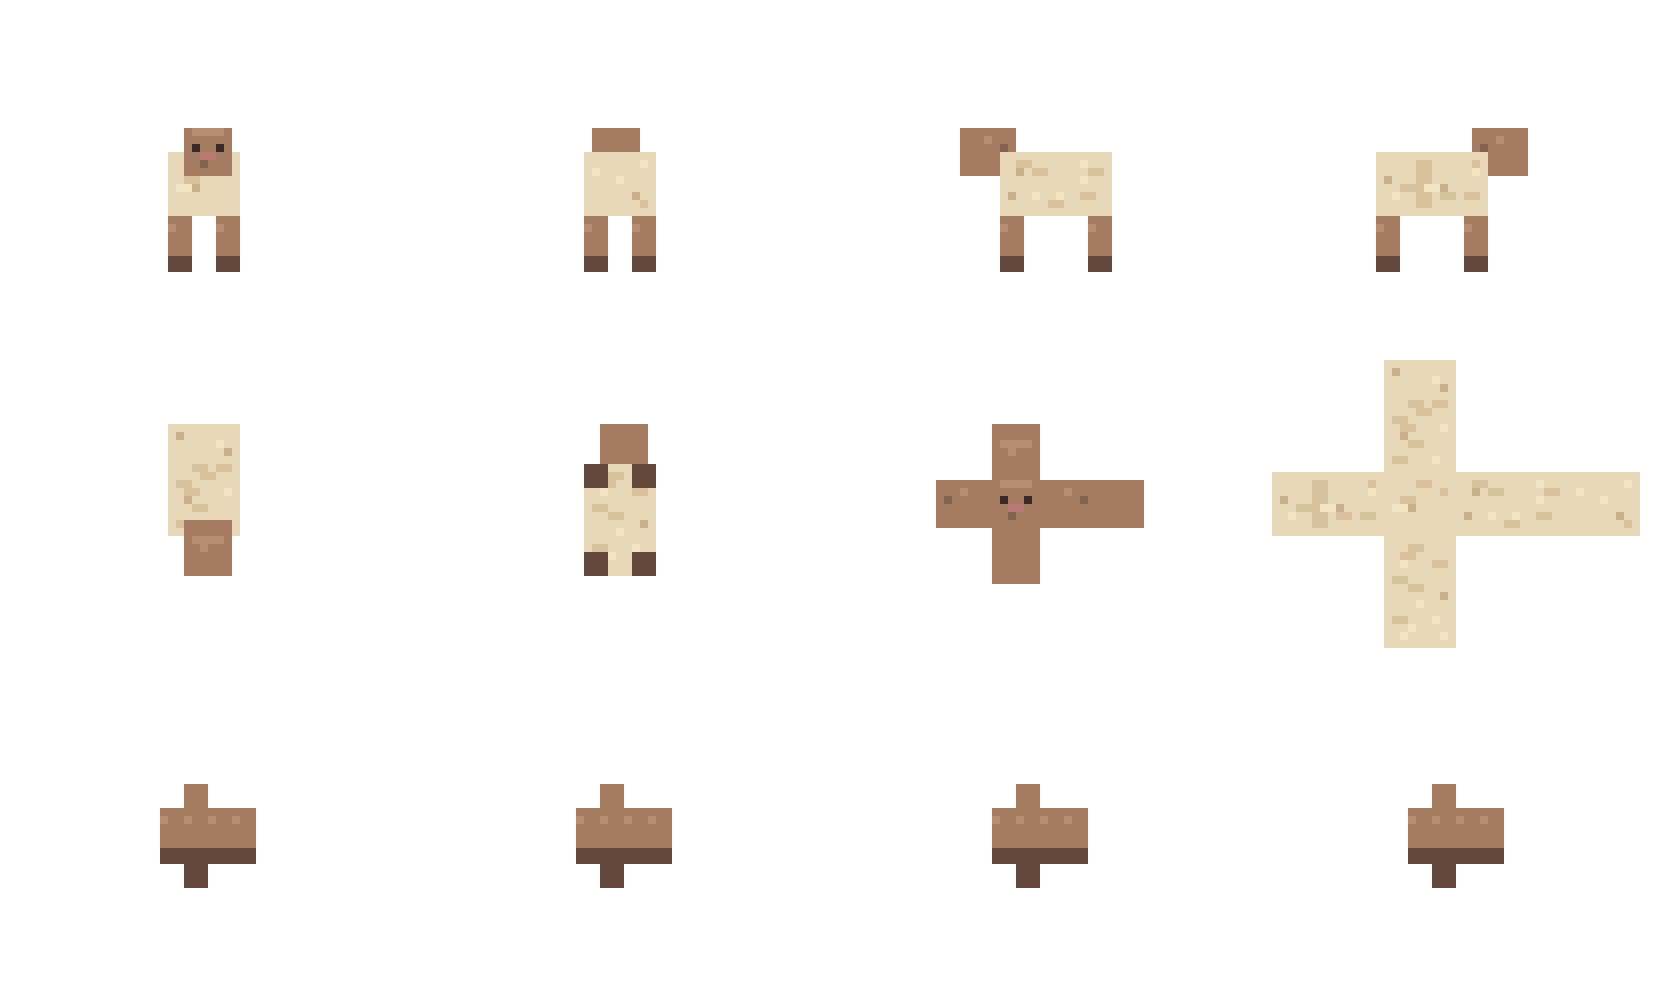
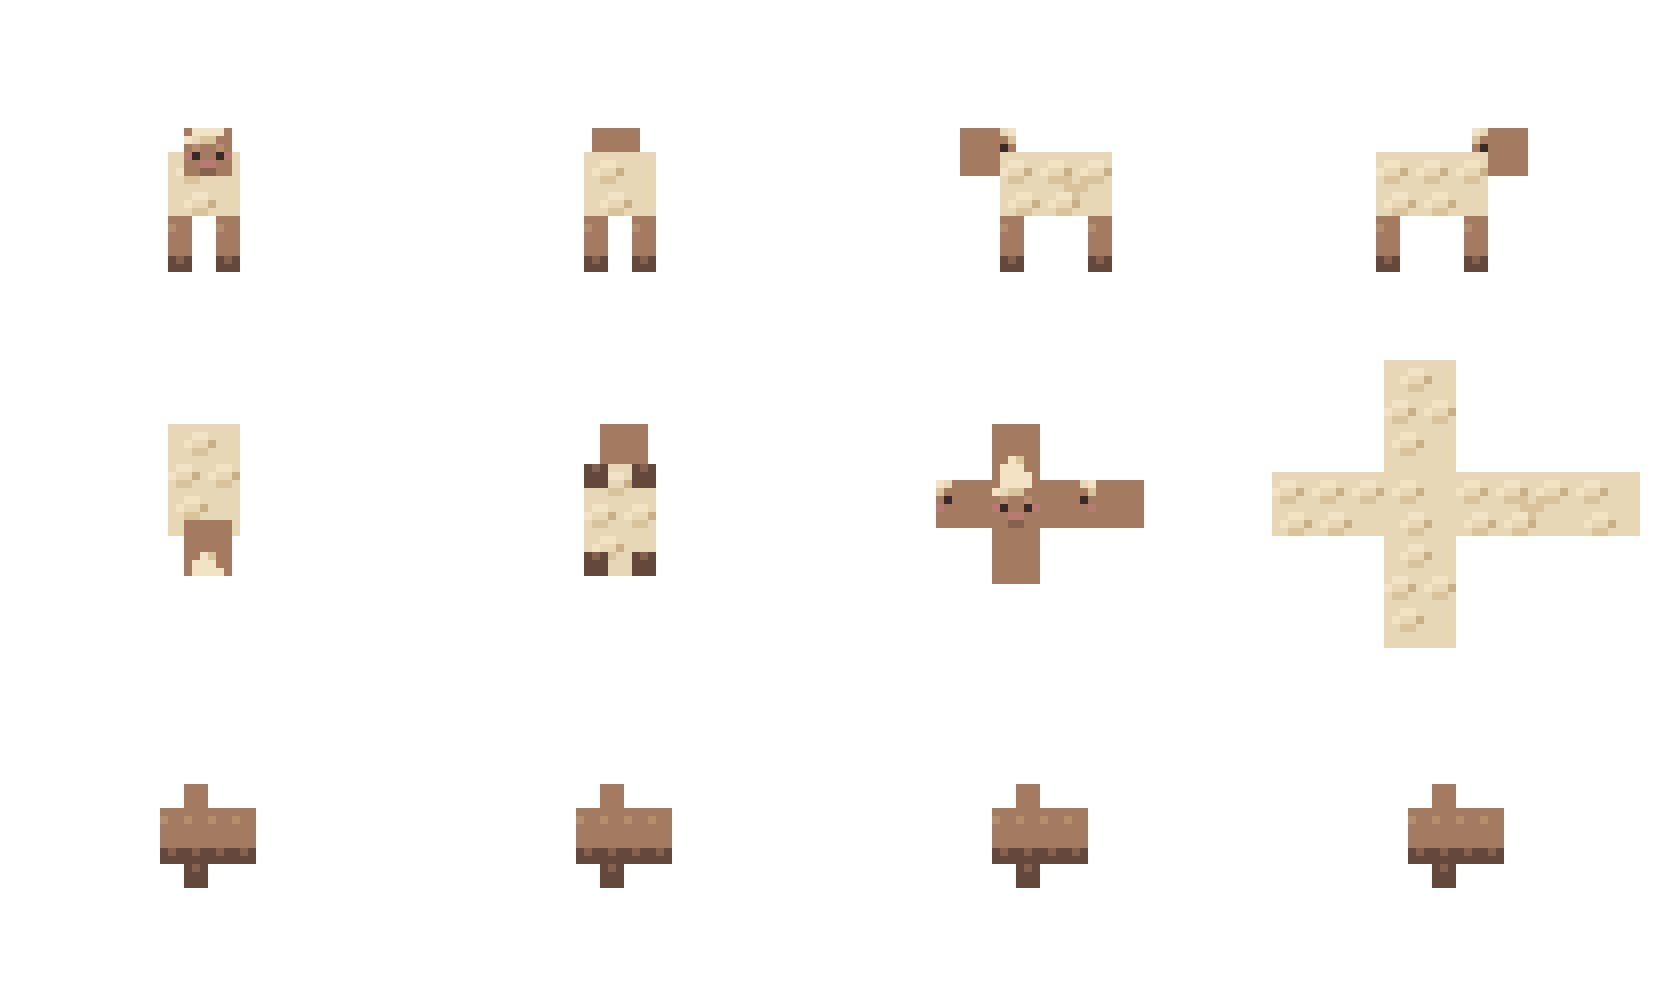
Ovelha pipoca no lugar da ovelha lisa (v0.220.0)
Atlas montado pela prancha ortográfica enviada; guardadas a prancha lisa anterior e a tosquiada (para a futura tosquia).

Claude-Session: https://claude.ai/code/session_01KGdgoniDf5SwPMM31qtkm2

diff --git a/docs/NEXT_STEPS.md b/docs/NEXT_STEPS.md
@@ -6,7 +6,7 @@ Para escolher o próximo lote de arte, consulte o [Guia de itens e texturas](GUI
 
 ## Auditoria das regras de mundo (ADR 0116) — em andamento
 **Regra do dono do produto:** nenhuma regra de mundo é implementada ou alterada sem consultar a Minecraft Wiki, apresentar o estado atual, formular a proposta e receber a **aprovação**. As 30 regras de [`AUDITORIA_REGRAS.md`](AUDITORIA_REGRAS.md) estão **pendentes** (uma por vez, na ordem que o dono escolher). **Os "próximos passos recomendados" abaixo (Braseiro, cama, minério, fauna…) são regras de mundo: só entram depois do ciclo da regra correspondente.**
-**Cultivo (ADR 0144):** feita a colheita da planta imatura e a horta da aldeia; **pendentes:** fonte de cenoura e batata para a partida individual (e então tirá-las de `wildSeedAt`), batata venenosa; servidor: pacote novo (`build:net` + `sync-net`). **Arte dos mobs (ADR 0143, adendo):** mobs, NPCs e personagens podem passar de 32 px; **feita para os 4 animais de fazenda (v0.217.0, atlas UV 128 × 128; v2 na v0.218.0)**; **ovelha pela prancha ortográfica (v0.219.0, sem furos; 1 px de arte por unidade)**; **pendentes:** pranchas ortográficas de porco, vaca e galinha (hoje na v2 do Drive, com pixels transparentes dentro de faces: porco 74, vaca 406, galinha 6; o jogo descarta alfa < 0,5 e pode mostrar furo) e, se o dono quiser mais detalhe, pranchas a 2 ou 4 px por unidade; os `orvalis_mob_*_128x128.png` do Drive (ilustrações de perfil) seguem sem uso, e os demais mobs (Farejador, outros animais) esperam arte própria. **Arte de 32 px (ADR 0143):** feita para o que o jogo usa; **pendentes:** água em 32 px (o pacote não traz), os 83 itens e os tiles ainda só em 16 px, e as 252 artes do Drive sem uso (iluminação, velas, fogueiras, lã, vidros, barris, estantes, pedregulho, musgo…), que entram com cada bloco ou item. **Aldeia da Costa (ADR 0142):** feita; **pendentes:** casas e celeiro (só o piso), poço e bancos, água nos talhões, a aldeia na partida individual (hoje só na sala 102); servidor: pacote novo (`build:net` + `sync-net`) e `def.terrain` em `src/app.js`. **Famílias das madeiras (ADR 0139):** W1 (laje e degrau), W2 (cerca e portão, ADR 0140) e W3 (porta e alçapão, ADR 0141) feitas; **pendentes:** timbre de madeira no som; alçapão como escada e com animação; porta de 2 células e alçapão (porta 6 tábuas → 3; alçapão 6 → 2); W4 botão e placa de pressão adiados; fora: estante, placa suspensa, placa com texto; bote com baú espera o baú do Orvalis. **Pesca (ADR 0133):** pendentes — lixo e tesouro, baiacu com efeitos, balde com peixe, lançar além da mira. **Orvalis em sala (ADR 0138):** entregas A, B e C feitas (protocolo 5); **pendentes:** segundo passageiro, bote com baú, ver a boia dos outros jogadores, anti-trapaça da bolsa e da fabricação, chat e salas privadas; servidor: sincronizar o pacote a cada mudança da sala. **Botes (ADR 0137, E4a feita):** pendentes — E4b com baú (precisa do baú do Orvalis), segundo passageiro e animais a bordo, bote em terra (lento), golpe que o quebra, dano de queda anulado. **Corais (ADR 0136, E3b feita):** pendentes — gorgônias de parede, picles-do-mar e pepino-do-mar, prismarinho e conduto, coral por farinha de osso, morte do coral ao retirar a água. **Flora marinha (ADR 0135):** E3a feita; pendentes — crescimento da alga por tique (14 %), erva marinha por farinha de osso; **E3b corais** (5 famílias, vivo e morto, recifes em manchas rasas, solta a si mesmo, morre fora da água em segundos) é o próximo passo. **Em andamento:** #14 Água (ADR 0132: E1 água animada e corrida nadando feitas; próximas: E2 itens e pesca, E3 oceano e corais, E4 botes, e o fluxo de água, cada um com ciclo da Wiki). **Feita:** #18 Drops e coleta (ADR 0131, v0.200.0; pendente: ação de jogar item com atraso de 2 s). **Feita:** #35 Fauna de fazenda (ADR 0124, v0.193.0; sem mudança de protocolo). **Feita:** #36 Reprodução (ADR 0125, v0.194.0). **Feita:** fauna no save (ADR 0126, v0.195.0). **Feita:** #37 Beterraba (ADR 0127, v0.196.0). **Em aberto (adiado pelo dono):** leite e tosquia (#38, aguarda arte e itens: tesoura, balde, ferro). **Feita:** #23 Vida e fome (ADR 0130, v0.199.0). **Feita:** #39 Abóbora e melancia (ADR 0128, v0.197.0) e #40 as 8 idades da horta (ADR 0129, v0.198.0). **Pendências dela:** abóbora esculpida e golens, torta de abóbora, batata venenosa (precisa de efeitos), as 8 idades [FEITO] do trigo/cenoura/batata (auditoria da horta), outras sementes da galinha, cor do filhote da ovelha, ovos/pintinho. **Pendências da fauna:** leite (balde), tosquia e lã que recresce, ovos, geração contínua/despawn, abate no save, luz do céu nos animais, caixa de colisão da Wiki na física, sons, ovo (o ícone existe no Drive; sem ovos nesta fase), valores de velocidade em m/s Outros animais do pacote Mobs64px (cavalo, lobo, gato, coelho…) seguem na fila, cada um pelo ciclo da ADR 0116. **Arte na fila (só fonte, sem uso no jogo):** `assets-src/orvalis-voxel/cultivos/` (57 sprites: trigo em 8 idades, beterraba, abóbora, melancia, cacau…; usar as 8 idades muda a horta de 3 para 8 fases, auditoria própria), `assets-src/orvalis-voxel/alimentos/` (20 ícones: beterraba, maçãs, melancia, ensopados, bolo…; a beterraba liga à reprodução do porco), `assets-src/orvalis-voxel/iluminacao/` (P2-11) e `cozinha/` (P2-06: Fornalha, Caldeirão, comidas); a Fornalha liga a regra #21 à Tocha (#33). **Feita:** #32 Luz do céu nos dois mundos (ADR 0123, v0.190.0 a v0.192.0). **Dívidas dela:** itens soltos, animais, mão e jogadores da sala sem céu (ficam claros numa caverna) e a primeira conta (~220 ms) em um passo só; o servidor precisa do `sync-net` da v0.192.0. **Feita:** #34 Carvão mineral (ADR 0122, v0.189.0; servidor precisa do `sync-net`). **Feita:** #33 Tocha (ADR 0121, v0.188.0; servidor precisa do `sync-net`). **Próxima aprovada:** #32 Luz do céu, nos dois mundos. **Feita:** #21 Fornalha e Carvão Vegetal (ADR 0120, v0.187.0): **a Tocha (#33) agora pode usar a receita da Wiki (Carvão Vegetal + haste → 4)**; o ícone definitivo do carvão já está no jogo (v0.187.1); a família do carvão (mineral, minério, bloco) está em `assets-src/orvalis-voxel/carvao/`, só fonte. **Feitas:** #9 Luz de bloco (ADR 0119, v0.186.0; **#32 Luz do céu** aguarda decisão do dono, depende da Tocha do Orvalis — arte já em `assets-src/orvalis-voxel/iluminacao/`); #16 Quebra progressiva (ADR 0117, v0.184.0); #10 Ciclo de dia e noite e #31 Clima (ADR 0118, v0.185.0 — **o servidor `orvalis-servidor` precisa do `sync-net` desta versão (protocolo 3) antes de a sala aceitar o jogo novo**; dívidas: oclusão da chuva sob telhado, trovão/neve se o dono quiser, hidratação da enxada com chuva). **Próxima:** o dono escolhe a regra (uma por vez); durezas provisórias dos blocos do Titã e a velocidade do cobre seguem em aberto.
+**Cultivo (ADR 0144):** feita a colheita da planta imatura e a horta da aldeia; **pendentes:** fonte de cenoura e batata para a partida individual (e então tirá-las de `wildSeedAt`), batata venenosa; servidor: pacote novo (`build:net` + `sync-net`). **Arte dos mobs (ADR 0143, adendo):** mobs, NPCs e personagens podem passar de 32 px; **feita para os 4 animais de fazenda (v0.217.0, atlas UV 128 × 128; v2 na v0.218.0)**; **ovelha pela prancha ortográfica (v0.219.0; "pipoca" na v0.220.0, sem furos; 1 px de arte por unidade; a prancha da ovelha tosquiada já está no repositório, para a tosquia)**; **pendentes:** pranchas ortográficas de porco, vaca e galinha (hoje na v2 do Drive, com pixels transparentes dentro de faces: porco 74, vaca 406, galinha 6; o jogo descarta alfa < 0,5 e pode mostrar furo) e, se o dono quiser mais detalhe, pranchas a 2 ou 4 px por unidade; os `orvalis_mob_*_128x128.png` do Drive (ilustrações de perfil) seguem sem uso, e os demais mobs (Farejador, outros animais) esperam arte própria. **Arte de 32 px (ADR 0143):** feita para o que o jogo usa; **pendentes:** água em 32 px (o pacote não traz), os 83 itens e os tiles ainda só em 16 px, e as 252 artes do Drive sem uso (iluminação, velas, fogueiras, lã, vidros, barris, estantes, pedregulho, musgo…), que entram com cada bloco ou item. **Aldeia da Costa (ADR 0142):** feita; **pendentes:** casas e celeiro (só o piso), poço e bancos, água nos talhões, a aldeia na partida individual (hoje só na sala 102); servidor: pacote novo (`build:net` + `sync-net`) e `def.terrain` em `src/app.js`. **Famílias das madeiras (ADR 0139):** W1 (laje e degrau), W2 (cerca e portão, ADR 0140) e W3 (porta e alçapão, ADR 0141) feitas; **pendentes:** timbre de madeira no som; alçapão como escada e com animação; porta de 2 células e alçapão (porta 6 tábuas → 3; alçapão 6 → 2); W4 botão e placa de pressão adiados; fora: estante, placa suspensa, placa com texto; bote com baú espera o baú do Orvalis. **Pesca (ADR 0133):** pendentes — lixo e tesouro, baiacu com efeitos, balde com peixe, lançar além da mira. **Orvalis em sala (ADR 0138):** entregas A, B e C feitas (protocolo 5); **pendentes:** segundo passageiro, bote com baú, ver a boia dos outros jogadores, anti-trapaça da bolsa e da fabricação, chat e salas privadas; servidor: sincronizar o pacote a cada mudança da sala. **Botes (ADR 0137, E4a feita):** pendentes — E4b com baú (precisa do baú do Orvalis), segundo passageiro e animais a bordo, bote em terra (lento), golpe que o quebra, dano de queda anulado. **Corais (ADR 0136, E3b feita):** pendentes — gorgônias de parede, picles-do-mar e pepino-do-mar, prismarinho e conduto, coral por farinha de osso, morte do coral ao retirar a água. **Flora marinha (ADR 0135):** E3a feita; pendentes — crescimento da alga por tique (14 %), erva marinha por farinha de osso; **E3b corais** (5 famílias, vivo e morto, recifes em manchas rasas, solta a si mesmo, morre fora da água em segundos) é o próximo passo. **Em andamento:** #14 Água (ADR 0132: E1 água animada e corrida nadando feitas; próximas: E2 itens e pesca, E3 oceano e corais, E4 botes, e o fluxo de água, cada um com ciclo da Wiki). **Feita:** #18 Drops e coleta (ADR 0131, v0.200.0; pendente: ação de jogar item com atraso de 2 s). **Feita:** #35 Fauna de fazenda (ADR 0124, v0.193.0; sem mudança de protocolo). **Feita:** #36 Reprodução (ADR 0125, v0.194.0). **Feita:** fauna no save (ADR 0126, v0.195.0). **Feita:** #37 Beterraba (ADR 0127, v0.196.0). **Em aberto (adiado pelo dono):** leite e tosquia (#38, aguarda arte e itens: tesoura, balde, ferro). **Feita:** #23 Vida e fome (ADR 0130, v0.199.0). **Feita:** #39 Abóbora e melancia (ADR 0128, v0.197.0) e #40 as 8 idades da horta (ADR 0129, v0.198.0). **Pendências dela:** abóbora esculpida e golens, torta de abóbora, batata venenosa (precisa de efeitos), as 8 idades [FEITO] do trigo/cenoura/batata (auditoria da horta), outras sementes da galinha, cor do filhote da ovelha, ovos/pintinho. **Pendências da fauna:** leite (balde), tosquia e lã que recresce, ovos, geração contínua/despawn, abate no save, luz do céu nos animais, caixa de colisão da Wiki na física, sons, ovo (o ícone existe no Drive; sem ovos nesta fase), valores de velocidade em m/s Outros animais do pacote Mobs64px (cavalo, lobo, gato, coelho…) seguem na fila, cada um pelo ciclo da ADR 0116. **Arte na fila (só fonte, sem uso no jogo):** `assets-src/orvalis-voxel/cultivos/` (57 sprites: trigo em 8 idades, beterraba, abóbora, melancia, cacau…; usar as 8 idades muda a horta de 3 para 8 fases, auditoria própria), `assets-src/orvalis-voxel/alimentos/` (20 ícones: beterraba, maçãs, melancia, ensopados, bolo…; a beterraba liga à reprodução do porco), `assets-src/orvalis-voxel/iluminacao/` (P2-11) e `cozinha/` (P2-06: Fornalha, Caldeirão, comidas); a Fornalha liga a regra #21 à Tocha (#33). **Feita:** #32 Luz do céu nos dois mundos (ADR 0123, v0.190.0 a v0.192.0). **Dívidas dela:** itens soltos, animais, mão e jogadores da sala sem céu (ficam claros numa caverna) e a primeira conta (~220 ms) em um passo só; o servidor precisa do `sync-net` da v0.192.0. **Feita:** #34 Carvão mineral (ADR 0122, v0.189.0; servidor precisa do `sync-net`). **Feita:** #33 Tocha (ADR 0121, v0.188.0; servidor precisa do `sync-net`). **Próxima aprovada:** #32 Luz do céu, nos dois mundos. **Feita:** #21 Fornalha e Carvão Vegetal (ADR 0120, v0.187.0): **a Tocha (#33) agora pode usar a receita da Wiki (Carvão Vegetal + haste → 4)**; o ícone definitivo do carvão já está no jogo (v0.187.1); a família do carvão (mineral, minério, bloco) está em `assets-src/orvalis-voxel/carvao/`, só fonte. **Feitas:** #9 Luz de bloco (ADR 0119, v0.186.0; **#32 Luz do céu** aguarda decisão do dono, depende da Tocha do Orvalis — arte já em `assets-src/orvalis-voxel/iluminacao/`); #16 Quebra progressiva (ADR 0117, v0.184.0); #10 Ciclo de dia e noite e #31 Clima (ADR 0118, v0.185.0 — **o servidor `orvalis-servidor` precisa do `sync-net` desta versão (protocolo 3) antes de a sala aceitar o jogo novo**; dívidas: oclusão da chuva sob telhado, trovão/neve se o dono quiser, hidratação da enxada com chuva). **Próxima:** o dono escolhe a regra (uma por vez); durezas provisórias dos blocos do Titã e a velocidade do cobre seguem em aberto.
 
 
 ## Limpeza do 2.5D e do Santuário (ADR 0115) — feita (v0.181.0 a v0.183.0)

diff --git a/docs/CHANGELOG.md b/docs/CHANGELOG.md
@@ -1,5 +1,10 @@
 # Changelog
 
+## Orvalis v0.220.0 — Ovelha "pipoca" (28/11/2026)
+- **Arte.** A ovelha troca a prancha lisa pela **"Ovelha Pipoca"** (lã em cachos, franja clara na testa), enviada em prancha ortográfica a 1 px de arte por unidade; atlas montado por `make-orvalis-fazenda-prancha.py` (sem furos: o script recusa face transparente). Conferido no navegador (rosto, franja, lã, cascos).
+- Guardadas em `assets-src/orvalis-voxel/mobs/pranchas/`: `ovelha_ortografica.png` (pipoca, em uso), `ovelha_lisa_ortografica.png` (a anterior) e **`ovelha_tosquiada_ortografica.png`** (ovelha tosquiada, **sem uso**: o jogo ainda não tem tosquia, pendência já registrada — leite, tosquia e lã que recresce).
+- 818 testes passam; sem mudança de protocolo nem de save; o servidor não precisa de pacote novo.
+
 ## Orvalis v0.219.0 — Ovelha montada pela prancha ortográfica (28/11/2026)
 - **Arte (ADR 0143, adendo).** Novo fluxo para os animais de fazenda: o dono envia a **prancha ortográfica** (planificação em cruz de cada peça, pixels inteiros, fundo transparente) e o atlas UV sai **por script**: `scripts/make-orvalis-fazenda-prancha.py <animal>` lê `assets-src/orvalis-voxel/mobs/pranchas/<animal>_ortografica.png` e a ficha (`fazenda-uv.json`), acha cada cruz pelo tamanho (2d+2w × 2d+h unidades), detecta o tamanho do pixel da arte e quantos pixels cabem em uma unidade, reamostra por vizinho mais próximo para 2 px/unidade e grava `<animal>_uv_128x128.png`; **o script falha se alguma face ficar com pixel transparente** (acaba o problema de furos da v2). Orientação pelo `BoxGeometry` (frente −Z; +Y e −Y girados 180° em relação à cruz).
 - **Ovelha** feita por esse fluxo (substitui o atlas v2 dela; as outras três seguem com a v2 do Drive até chegarem as pranchas). A prancha da ovelha está a **1 pixel de arte por unidade** (o detalhe do atlas antigo de 64 × 64, dobrado), então não ganha resolução; para ganhar, enviar a prancha com 2 ou 4 px por unidade (o script já aceita).
